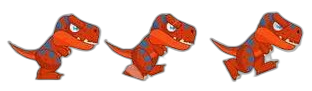
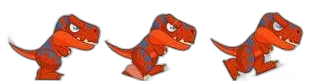
dungtran

diff --git a/gamedino/src/DINO/Dinosaur.java b/gamedino/src/DINO/Dinosaur.java
@@ -70,19 +70,19 @@ public class Dinosaur extends GameScreen {
         
     
         
-        dino_anim = new Animation(50);
+        dino_anim = new Animation(100);
         AFrameOnImage f ;
         
-        f = new AFrameOnImage(0,0,104,91);
+        f = new AFrameOnImage(0,0,104,81);
         dino_anim.AddFrame(f);
-        f = new AFrameOnImage(104,0,104,91);
+        f = new AFrameOnImage(104,0,104,81);
         dino_anim.AddFrame(f);
-        f = new AFrameOnImage(208,0,104,91);
+        f = new AFrameOnImage(208,0,104,81);
         dino_anim.AddFrame(f);
-        f = new AFrameOnImage(0,0,104,91);
+        f = new AFrameOnImage(0,0,104,81);
         dino_anim.AddFrame(f);
         
-        dino = new Dino(posx,posy,80,90);
+        dino = new Dino(posx,posy,80,80);
         
         ground = new Ground();
         

diff --git a/gamedino/src/DINO/TreeGroup.java b/gamedino/src/DINO/TreeGroup.java
@@ -33,7 +33,7 @@ public class TreeGroup {
         trees = new QueueList<Tree>();
         rdimg = new Vector <> ();
         ktimg = new int[ntree][2];
-        ktimg[0][0] = 85; ktimg[0][1] =  100;          ktimg[1][0] = 100; ktimg[1][1] = 93 ;
+        ktimg[0][0] = 159; ktimg[0][1] =  125;          ktimg[1][0] = 100; ktimg[1][1] = 93 ;
         ktimg[2][0] = 100; ktimg[2][1] =  90;          ktimg[3][0] = 126; ktimg[3][1] = 117 ;
         for(int i = 0 ;i<n ;i++){  //// 3 khoang 0-> 260 ; 261 -> 521 ; 521 -> 780 
             tmp = generator.nextInt(ntree);            
